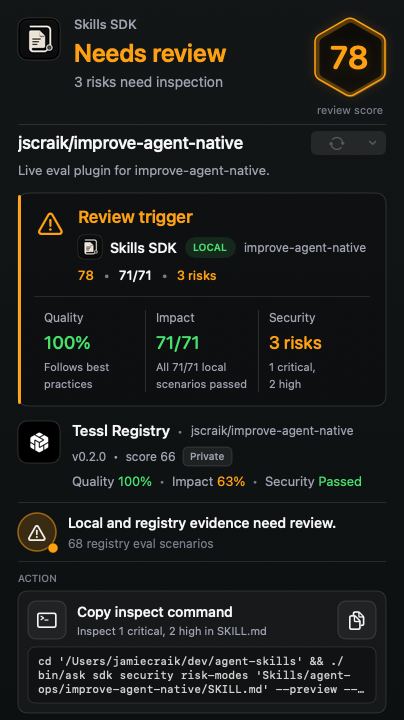
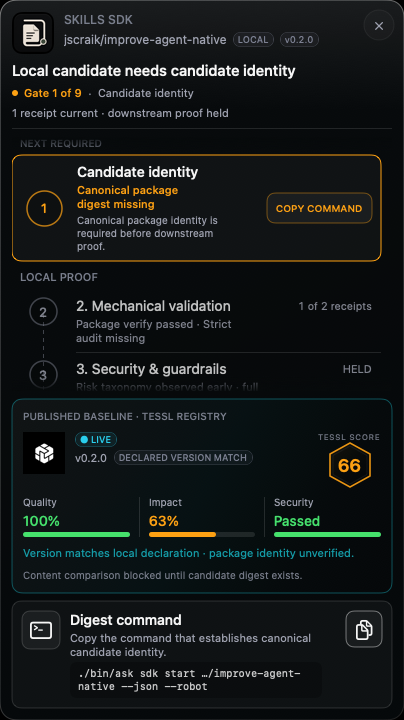
test(ui): restore retained review snapshot baseline
Refresh the approved 404x720 visual baseline for the current nine-gate fixture and restore an explicit pixel comparison so UI drift remains visible in future review sweeps.

Command: HOME=/private/tmp/skillsbar-baseline-full-home XDG_CACHE_HOME=/private/tmp/skillsbar-baseline-full-xdg CLANG_MODULE_CACHE_PATH=/private/tmp/skillsbar-baseline-full-clang DEVELOPER_DIR=/Applications/Xcode-beta.app/Contents/Developer swift test --build-system native --disable-sandbox --build-path /private/tmp/skillsbar-baseline-full-build -Xswiftc -gnone -> pass (64 tests, 1 skipped)

diff --git a/Tests/SkillsBarTests/ReviewPopoverTests.swift b/Tests/SkillsBarTests/ReviewPopoverTests.swift
@@ -283,6 +283,23 @@ final class ReviewPopoverTests: XCTestCase {
     }
 
     @MainActor
+    func testReviewFixtureRenderMatchesRetainedBaseline() throws {
+        let outputURL = FileManager.default.temporaryDirectory
+            .appendingPathComponent("skillsbar-review-\(UUID().uuidString).png")
+        defer { try? FileManager.default.removeItem(at: outputURL) }
+
+        try SnapshotRenderer.render(dashboard: .reviewFixture, to: outputURL)
+
+        let repoRoot = URL(fileURLWithPath: #filePath)
+            .deletingLastPathComponent()
+            .deletingLastPathComponent()
+            .deletingLastPathComponent()
+        let baselineURL = repoRoot.appendingPathComponent(".harness/evidence/2026-07-09-skills-sdk-review-popover-implementation.png")
+        let difference = try pixelDifference(baselineURL, outputURL)
+        XCTAssertLessThanOrEqual(difference, 0.0005, "Rendered review fixture drifted from the retained baseline")
+    }
+
+    @MainActor
     func testReviewFixtureRendersPipelinePostureDeterministically() throws {
         let firstURL = FileManager.default.temporaryDirectory
             .appendingPathComponent("skillsbar-review-first-\(UUID().uuidString).png")

diff --git a/.harness/reports/2026-07-14-skillsbar-nine-gate-ui-validation.md b/.harness/reports/2026-07-14-skillsbar-nine-gate-ui-validation.md
@@ -86,3 +86,17 @@ Command: `codesign --verify --deep --strict --verbose=2 /private/tmp/skillsbar-p
 This follow-up proves the current source and focused regressions only; it does
 not prove hosted review approval, remote merge, installed-app runtime, or Tessl
 publication.
+
+## Retained baseline refresh
+
+The approved retained baseline was regenerated from the current nine-gate
+`SKILLSBAR_REVIEW_FIXTURE=1` rendering at the existing `404 x 720` canvas. The
+binary artifact remains at:
+
+`.harness/evidence/2026-07-09-skills-sdk-review-popover-implementation.png`
+
+Command: `SKILLSBAR_REVIEW_FIXTURE=1 timeout 15 /private/tmp/skillsbar-baseline-build/arm64-apple-macosx/debug/SkillsBar --snapshot /private/tmp/skillsbar-new-baseline.png` -> pass (wrote the current 404 x 720 fixture snapshot)
+
+Command: `cp /private/tmp/skillsbar-new-baseline.png .harness/evidence/2026-07-09-skills-sdk-review-popover-implementation.png` -> pass (updated the approved retained baseline artifact)
+
+Command: `HOME=/private/tmp/skillsbar-baseline-test-home XDG_CACHE_HOME=/private/tmp/skillsbar-baseline-test-xdg CLANG_MODULE_CACHE_PATH=/private/tmp/skillsbar-baseline-test-clang DEVELOPER_DIR=/Applications/Xcode-beta.app/Contents/Developer swift test --build-system native --disable-sandbox --build-path /private/tmp/skillsbar-baseline-test-build -Xswiftc -gnone --filter "ReviewPopoverTests"` -> pass (51 tests, including `testReviewFixtureRenderMatchesRetainedBaseline`)
